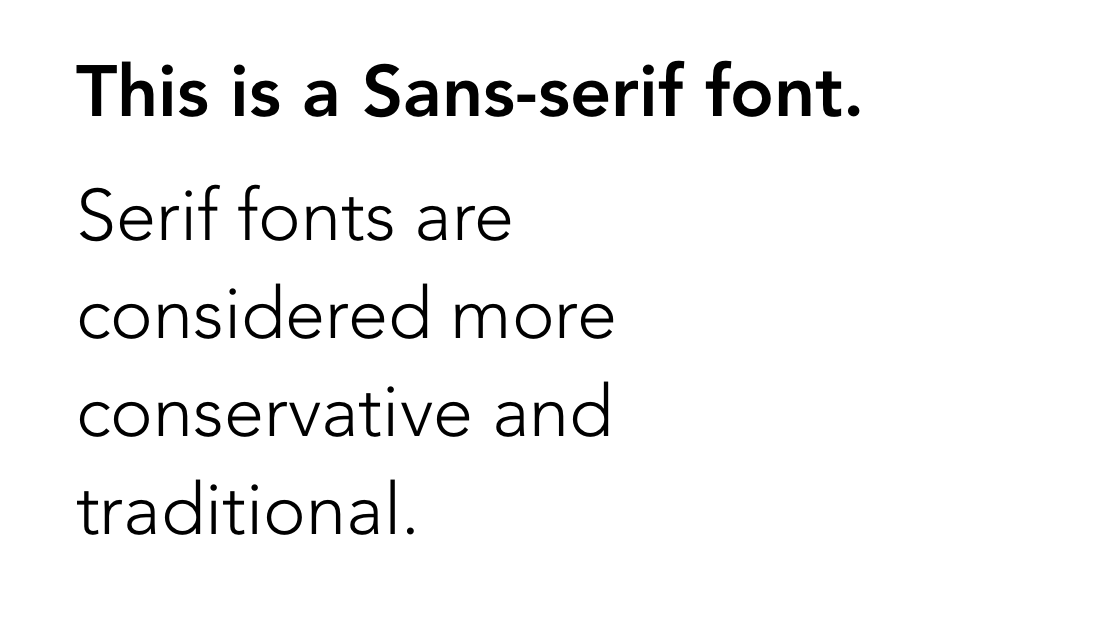
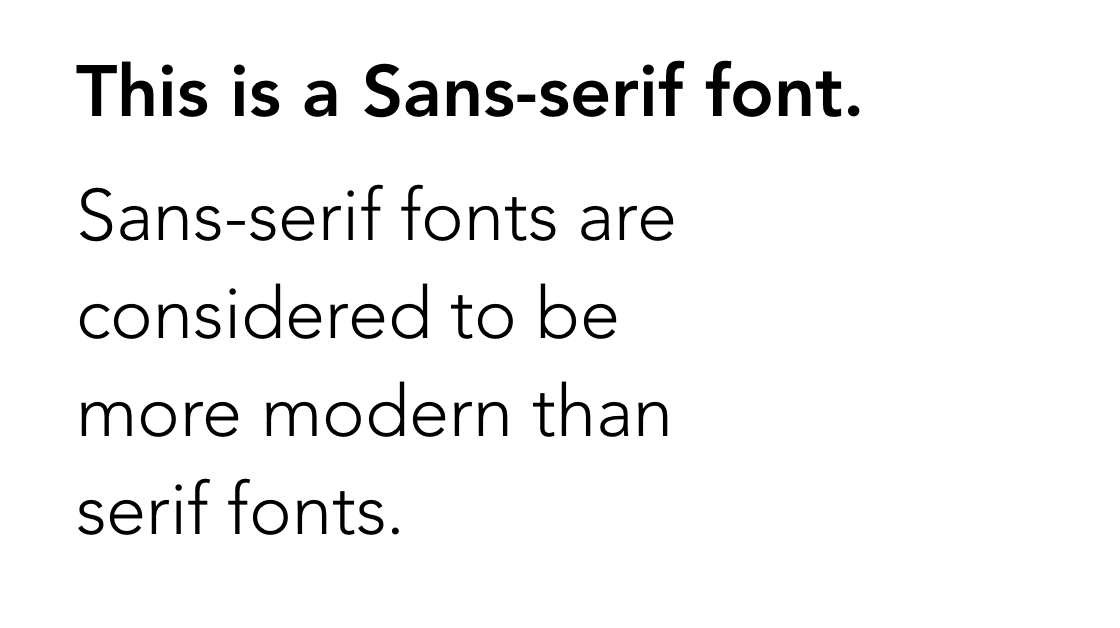
update slides with images

diff --git a/wk-four-lesson-plan/ux-wk-four-deckset/ux-wk-four.md b/wk-four-lesson-plan/ux-wk-four-deckset/ux-wk-four.md
@@ -1,0 +1,242 @@
+autoscale: true
+
+# Review
+
+^ Review wireframes and user flows, answer questions and give feedback.
+
+---
+
+## Look back at the work you have done so far and answer the following questions:
+
+- Do you have a well-defined problem? Do you feel you are solving the right problem?
+
+- Do you understand the user, their motives and needs? Is there an angle or a user you are missing?
+
+---
+
+## When going through your wireframes, ask yourself the following questions:
+
+- Will this item appear on every page or just this page?
+
+- How will this look on mobile devices?
+
+- How do I go back to the previous page?
+
+- How will this look on a larger display (1200px and up)?
+
+- Will the user see a message to confirm their action?
+
+---
+
+# Grid/Spacing
+
+![](architecture-art-background-236734.jpg)
+
+^ Grid systems allow you to arrange content in a predictable, scalable way. Grids have a long, rich history in print design. In digital design, they provide guides for designers to create layouts that support different screen sizes.
+
+^ Grids consist of equal sized columns separated by margins. Content can be placed in one or more of the columns.
+
+^ Instructor: Open up Sketch and walk the class through the creation of artboards with different grid layouts.
+
+^ Helpful Links:
+
+^ Golden Ratio: https://www.interaction-design.org/literature/article/the-golden-ratio-principles-of-form-and-layout
+
+^ Rule of thirds:*https://www.interaction-design.org/literature/article/the-rule-of-thirds-know-your-layout-sweet-spots
+
+---
+
+# Typography
+
+![](blur-classic-close-up-234133.jpg)
+
+^ Typography can be an elusive and intimidating skill for the beginning designer. We look at type every day without understanding or fully realizing what goes into it. As with anything, it takes knowledge and practice.
+
+---
+
+# Why is good typography important?
+
+^ Good typography allows you to make emotional connections with your audience, often on a subliminal level. It also determines how early your audience can access and assimilate the information being shown to them.
+
+---
+
+![fit](/Users/sarrahvesselov/Documents/ux-pt-course/wk-four-lesson-plan/Font emotions.png)
+
+
+^ The typeface you choose affects the way the readers emotionally connect with the content.
+
+---
+
+![fit](/Users/sarrahvesselov/Documents/ux-pt-course/wk-four-lesson-plan/alignment good bad.png)
+
+^ The spacing between letters and lines of text can make your content easier or harder to read. The line length also impacts readability.
+
+---
+
+![fit](/Users/sarrahvesselov/Documents/ux-pt-course/wk-four-lesson-plan/KerningTrackingLeading-3.jpg)
+
+^ Kerning is the process of adjusting the spacing between characters in a proportional font, in order to make the text easier to read.
+
+---
+
+![fit](/Users/sarrahvesselov/Documents/ux-pt-course/wk-four-lesson-plan/KerningTrackingLeading-5.jpg)
+
+^ Tracking (Letter Spacing)
+^ Tracking is different from kerning. Tracking adjusts the letter spacing uniformly over a range of characters. Adjusting tracking can also improve readability.
+
+---
+
+![fit](/Users/sarrahvesselov/Documents/ux-pt-course/wk-four-lesson-plan/KerningTrackingLeading-1.jpg)
+
+^ Leading is the old typographers term for the space between lines of text (vertically).
+
+^ Resource Links: https://www.canva.com/learn/kerning/ https://type.method.ac/ https://creativemarket.com/blog/whats-the-difference-between-leading-kerning-and-tracking
+
+---
+
+# Typeface
+
+^ There are three types of typeface: serif, sans-serif, and decorative. Choosing typefaces can be overwhelming. Keep these rules in mind when choosing:
+
+---
+
+![fit](/Users/sarrahvesselov/Documents/ux-pt-course/wk-four-lesson-plan/Decorative Fonts.png)
+
+^ Decorative fonts are often creative and don't make for easy reading. They are best used for headlines or as accent text.
+
+---
+
+![fit](/Users/sarrahvesselov/Documents/ux-pt-course/wk-four-lesson-plan/Serif Fonts.png)
+
+^ Serif fonts are considered more conservative and traditional. They give an air of seriousness and are thought to be slightly more difficult to read in digital form. In digital media, serif fonts are often used for headlines versus body text, but there are no hard rules.
+
+---
+
+![fit](/Users/sarrahvesselov/Documents/ux-pt-course/wk-four-lesson-plan/Serif types.png)
+
+---
+
+![fit](/Users/sarrahvesselov/Documents/ux-pt-course/wk-four-lesson-plan/Sans-serif Fonts.png)
+
+^ Sans-serif fonts are considered to be more modern than serif fonts.
+
+---
+
+![fit](/Users/sarrahvesselov/Documents/ux-pt-course/wk-four-lesson-plan/Sans-Serif types.png)
+
+---
+
+![fit](/Users/sarrahvesselov/Documents/ux-pt-course/wk-four-lesson-plan/Font Pairings.png)
+
+^ Pairing complimentary fonts can make your content more comfortable to read. If you aren't sure how to pair fonts, tools like Font Pair will give you recommendations.
+
+---
+
+# Contrast
+
+^ Contrasting type size, color, weight, and style can add impact and interest to your design. It can also support ideas and reinforce emotions.
+
+---
+
+## scale & hierarchy
+## weight
+## classification
+## case
+## color
+
+^ You can create contrast in typography using scale, weight, classification, case, color
+
+---
+
+![fit](/Users/sarrahvesselov/Documents/ux-pt-course/wk-four-lesson-plan/newspaper.jpg)
+
+^ Newspapers are experts at using contrast to bring readers through a page.
+
+---
+
+# Scale 
+
+By setting a typographic scale, you can:
+
+* control the pace at which a reader consumes content
+* guide the reader through a page
+* introduce hierarchy, helping the reader navigate and understand relationships between pieces of content.
+
+^ Scale refers to the range of values at which type is sized. The more regular the intervals between each value, the more harmonious the scale.
+
+---
+
+## Hierarchy
+
+^ Hierarchy is the arrangement of items in a way that some objects are perceived as being "above," "below," or "at the same level as" as other items. Hierarchy in typography is used to guide the reader through the content. Position and text size indicates what a reader should look at first, second, third, etc. It also makes your text more scannable.
+
+---
+
+![fit](/Users/sarrahvesselov/Documents/ux-pt-course/wk-four-lesson-plan/Hierarchy.png)
+
+---
+
+![fit](/Users/sarrahvesselov/Documents/ux-pt-course/wk-four-lesson-plan/Hierarchy with spacing.png)
+
+---
+
+# Consistency
+
+^ Keep your use of text style, size, and color consistent. Do not use an excessive number of fonts and colors.
+
+---
+
+![fit](/Users/sarrahvesselov/Documents/ux-pt-course/wk-four-lesson-plan/Hierarchy with spacing color typeface.png)
+
+^ Consistent fonts are especially important, as using too many can lead to a confusing and messy look. Even though only two font faces are used in this example, hierarchy is achieved by using size and color.
+
+---
+
+# Alignment
+
+^ Keep your text aligned properly within the grid and with other items in your layout. Don't overuse center-alignment. Center-aligned text is appropriate for headlines and short spans of text. Centered paragraphs are harder to read and should be avoided.
+
+---
+
+![fit](/Users/sarrahvesselov/Documents/ux-pt-course/wk-four-lesson-plan/alignment-center.png)
+
+---
+
+![fit](/Users/sarrahvesselov/Documents/ux-pt-course/wk-four-lesson-plan/alignment.png)
+
+^ Remember our grids? Use grids to align your text and space it out consistently.
+
+---
+
+# Whitespace
+
+^ The spaces NOT taken up by text are as important as those with text. Whitespace is the area between and within design elements. It can be literal whitespace, colored, texture, or even have a background image. Whitespace is the biggest source of tension between designers and stakeholders.
+
+---
+
+![](/Users/sarrahvesselov/Documents/ux-pt-course/wk-four-lesson-plan/whitespace.jpeg)
+
+^ Resource from: https://blog.prototypr.io/importance-of-white-space-in-design-5a40c0e65bfd
+
+---
+
+# Color
+
+Resource links: 
+
+The how and why of color accessibility: https://www.invisionapp.com/inside-design/color-accessibility-product-design/
+
+Check your color choices for accessibility: https://webaim.org/resources/contrastchecker/
+
+^ The colors you choose for your text are important in setting the right tone and for accessibility. 
+
+---
+
+# Color theory
+
+Guide to understanding color theory: https://99designs.com/blog/tips/the-7-step-guide-to-understanding-color-theory/
+
+
+
+
+
